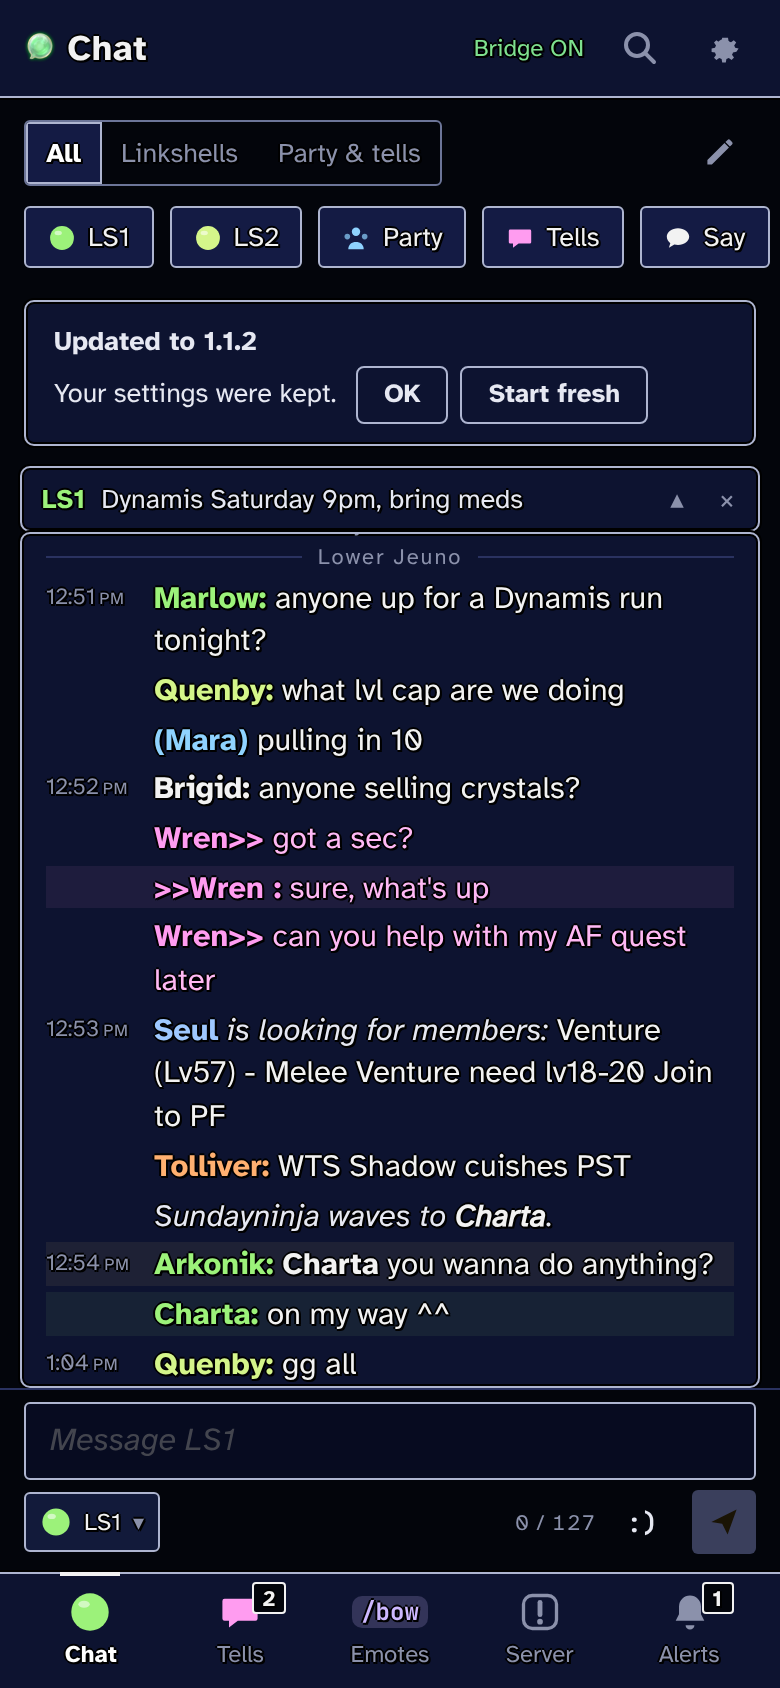
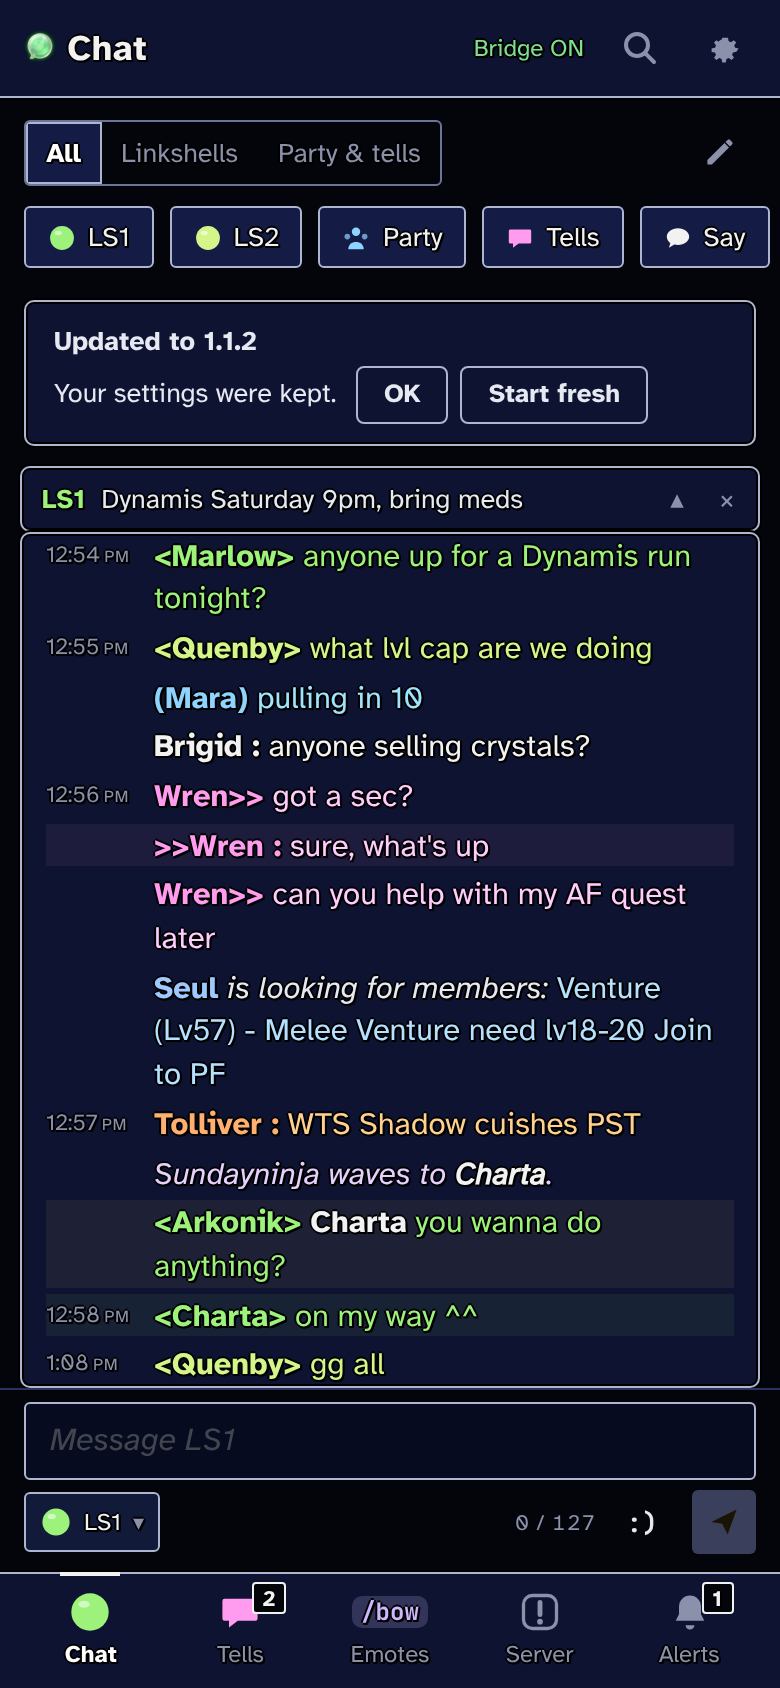
Game: <Name> linkshell and Name : say styles; message text colored by default, remembered per skin
Claude-Session: https://claude.ai/code/session_01EQHJw41hfgAS7SckUKE71o

diff --git a/bridge/index.html b/bridge/index.html
@@ -821,7 +821,7 @@ function toast(text) {
 // ------------------------------------------------------------------------------------------
 var DEFAULTS = {
   density: "comfortable", size: "M", calls: "highlight", tipSeen: false, holdTip: false, tellsBan: false, hidden: [],
-  clock: "12", watch: "", bazaar: false, caps: false, autocorrect: false, cmdMode: "all", cseg: "emote", motdMin: false, channelText: false, quickFilters: false, emoticons: "", seenAlerts: 0, scrollback: 1,
+  clock: "12", watch: "", bazaar: false, caps: false, autocorrect: false, cmdMode: "all", cseg: "emote", motdMin: false, channelText: false, channelTextGame: true, quickFilters: false, emoticons: "", seenAlerts: 0, scrollback: 1,
   master: {ls1: true, ls2: true, party: true, tell: true, say: true, shout: true, unity: true, yell: true, emote: true, finder: true},
   views: [
     {id: "all", name: "All", ch: {ls1: true, ls2: true, party: true, tell: true, say: true, shout: true, unity: false, yell: true, emote: true, finder: true}},
@@ -878,7 +878,7 @@ function cleanPrefs(o) {
   o.font = pick(o.font, ["readable", "classic"], D.font);
   o.emoteMode = pick(o.emoteMode, ["", "motion", "text"], D.emoteMode);
   o.scrollback = pick(o.scrollback, [1, 2, 4], D.scrollback);
-  ["tipSeen", "holdTip", "tellsBan", "bazaar", "caps", "autocorrect", "motdMin", "channelText", "quickFilters"].forEach(function (k) { o[k] = bool(o[k], D[k]); });
+  ["tipSeen", "holdTip", "tellsBan", "bazaar", "caps", "autocorrect", "motdMin", "channelText", "channelTextGame", "quickFilters"].forEach(function (k) { o[k] = bool(o[k], D[k]); });
   o.seenAlerts = typeof o.seenAlerts === "number" && isFinite(o.seenAlerts) && o.seenAlerts >= 0 ? o.seenAlerts : 0;
   if (!text(o.watch, 200)) o.watch = D.watch;
   if (!text(o.emoticons, 400)) o.emoticons = D.emoticons;
@@ -1330,7 +1330,9 @@ function readableColor(hex) {
   while ((lum(rgb) + .05) / (floor + .05) < 4.5 && rgb.some(function (v) { return v < 255; })) rgb = rgb.map(function (v) { return Math.min(255, v + 8); });
   return "#" + rgb.map(function (v) { return v.toString(16).padStart(2, "0"); }).join("");
 }
-function bodyHtml(m) { var h = m.ch === "finder" ? fmtFinder(m.body) : fmt(m.body); return S.channelText ? '<span style="color:' + readableColor(colorOf(m.ch)) + '">' + h + "</span>" : h; }
+// Color message text: Game has its own copy (on by default), every other skin shares one, so switching skins keeps each choice.
+function chText() { return S.skin === "game" ? S.channelTextGame : S.channelText; }
+function bodyHtml(m) { var h = m.ch === "finder" ? fmtFinder(m.body) : fmt(m.body); return chText() ? '<span style="color:' + readableColor(colorOf(m.ch)) + '">' + h + "</span>" : h; }
 function bodyLine(m, ctx) {
   var b = bodyHtml(m);
   // Tells: the normal layout puts the game's arrows in the header (Wren>> / >>Wren), so the line is just the message.
@@ -1398,7 +1400,8 @@ function compactPrefix(m) {
     case "unity": return "{" + who + "}";
     case "yell": return who + (m.zone ? "[" + esc(m.zone) + "]" : "") + ":";
     case "emote": case "finder": return "";
-    default: return who + ":";
+    case "ls1": case "ls2": return S.skin === "game" ? "&lt;" + who + "&gt;" : who + ":";
+    default: return who + (S.skin === "game" ? " :" : ":");
   }
 }
 function renderBlocks(list, ctx) {
@@ -2566,7 +2569,7 @@ function renderSettings() {
     srow("Scrollback", "Lines kept per channel", segs("scrollback", [["1", "500"], ["2", "1,000"], ["4", "2,000"]], String(S.scrollback || 1))) +
     '<div class="subsect">Channel colors</div>' +
     CHAT_CH.map(function (c) { return srow(ico(CH[c].icon, 16, "margin-right:8px;vertical-align:-2px") + CH[c].full, "", '<input type="color" class="swatch" data-color="' + c + '" value="' + colorOf(c) + '" aria-label="' + CH[c].full + ' color">'); }).join("") +
-    srow("Color message text", "Off: only names are colored.", tog(S.channelText, "channelText")) +
+    srow("Color message text", "Off: only names are colored.", tog(chText(), "channelText")) +
     srow("Reset colors", "", '<button class="linkbtn" data-act="resetcolors">Reset</button>') +
     '<div class="sect">BACKUP</div>' +
     srow("Your settings", "Saved on the bridge too, so a new phone gets them.", '<button class="linkbtn" data-act="export">Export</button><button class="linkbtn" data-act="import" style="margin-left:8px">Import</button>') +
@@ -2617,7 +2620,7 @@ $("settings").addEventListener("click", function (e) {
   if (t) {
     var k = t.dataset.set;
     if (k.indexOf("m.") === 0) { S.master[k.slice(2)] = !S.master[k.slice(2)]; }
-    else if (k === "channelText") { S.channelText = !S.channelText; }
+    else if (k === "channelText") { if (S.skin === "game") S.channelTextGame = !S.channelTextGame; else S.channelText = !S.channelText; }
     else if (k === "bazaar") { S.bazaar = !S.bazaar; }
     else if (k === "caps") { S.caps = !S.caps; applyCaps(); }
     else if (k === "autocorrect") { S.autocorrect = !S.autocorrect; applyCaps(); }

diff --git a/CHANGELOG.md b/CHANGELOG.md
@@ -27,7 +27,7 @@ Phone-side changes and fixes. It reads nothing new from the game and sends the s
 - "Reset settings" in Settings > Backup goes back to how a new install starts. Your mention names stay, and saved tells and your phone link aren't touched.
 
 ### Looks
-- A new skin, Game. It looks like the game's own chat log: chat printed in compact rows with a black outline, framed windows with a thin light edge, and square corners. Message text follows the Color message text switch, like the other skins. It always uses the compact layout, so Density is hidden while it's on.
+- A new skin, Game. It looks like the game's own chat log: chat printed in compact rows with a black outline, framed windows with a thin light edge, and square corners. Names print the way the game does (<Name> for linkshells, Name : for say and shout), and message text is colored by default. The Color message text switch is remembered separately for Game and for the other skins. It always uses the compact layout, so Density is hidden while it's on.
 - Onyx is now called Night in the skin list. It's the same plain black look, and your saved choice carries over.
 - Auto-translate braces now look like the game on every skin: green open brace, red close brace, and the words keep the line's color. Items and phrases match.
 - Midnight is no longer in the skin list. Nothing was removed: if you already have it selected it stays, and it shows in the list for you.
